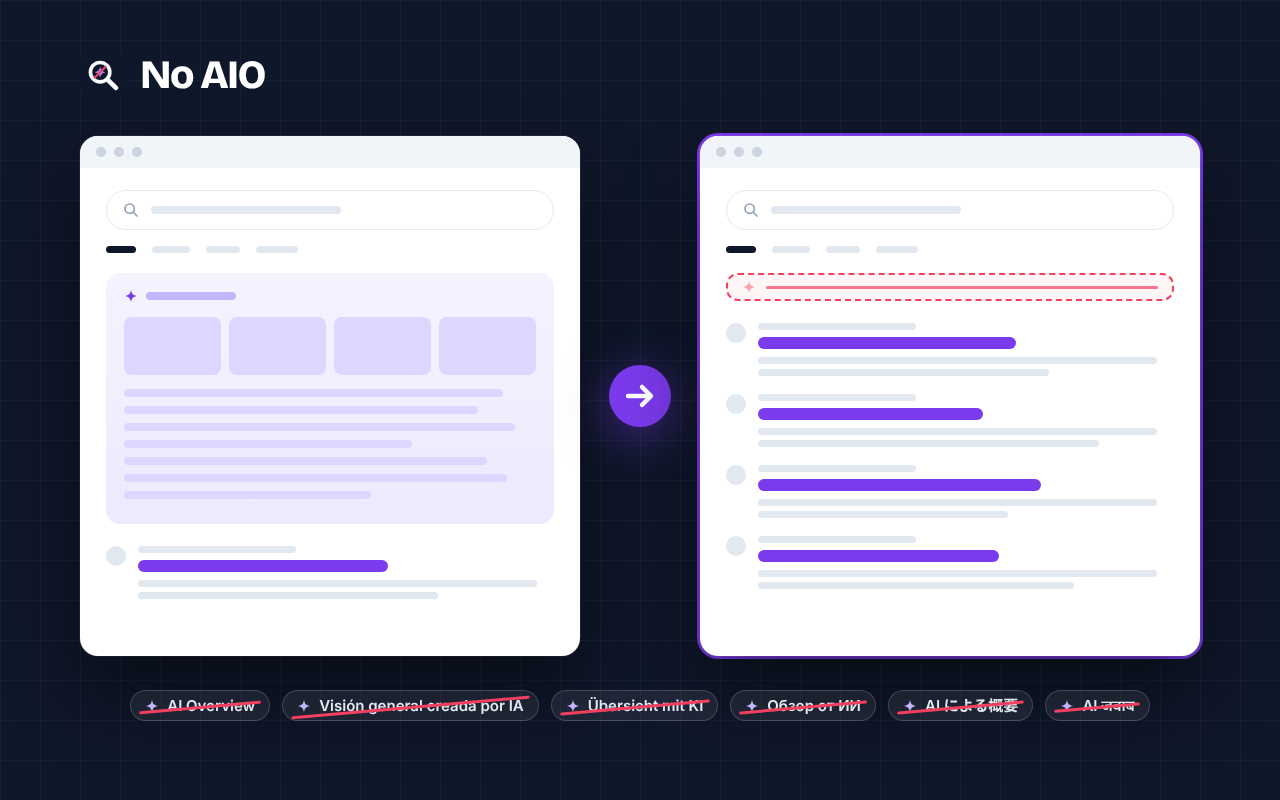
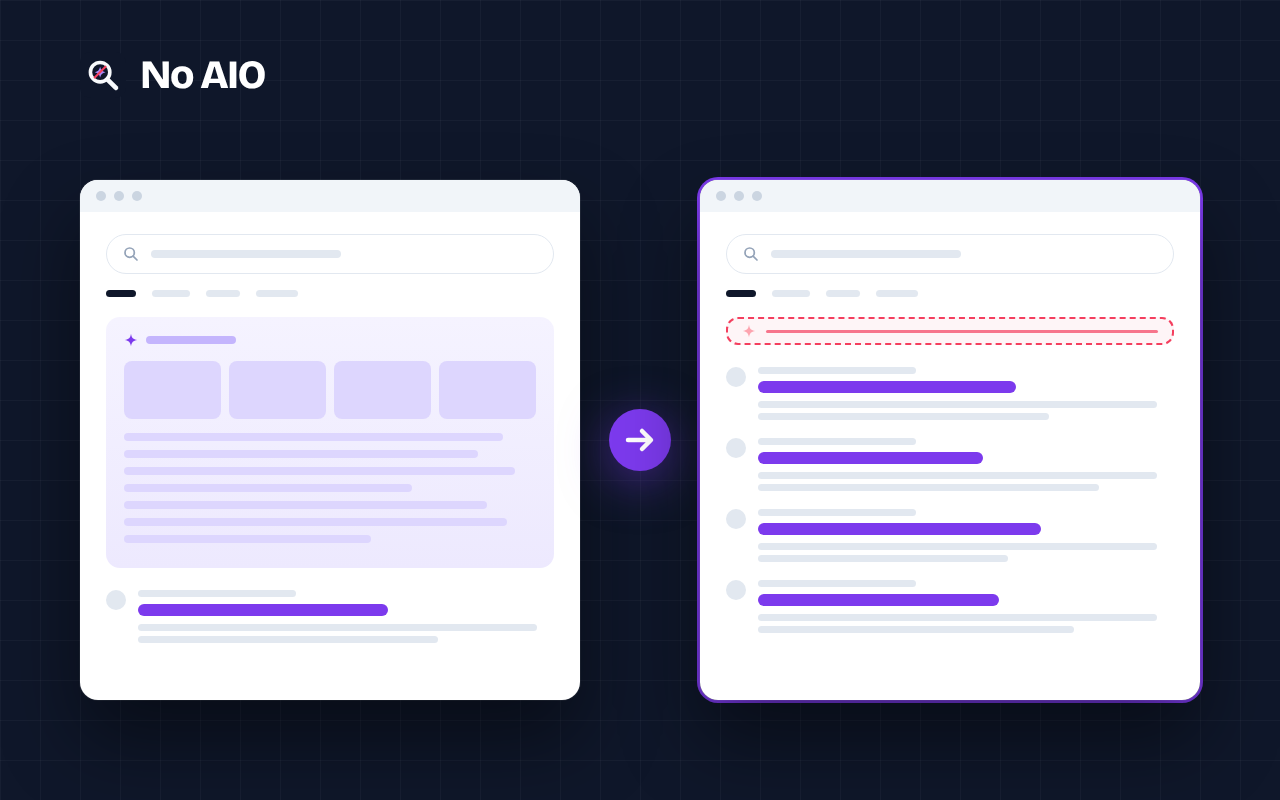
Captura universal sin la fila de etiquetas tachadas
Claude-Session: https://claude.ai/code/session_014NuHJHxpdZbSw9ow7VeDFp

diff --git a/scripts/render-store.py b/scripts/render-store.py
@@ -288,10 +288,10 @@ def screenshot_uni():
     return f"""<div class="abs glow grid" style="inset:0"></div>
 <div class="abs" style="left:80px;top:52px;display:flex;align-items:center;gap:14px">
 <div style="width:46px;height:46px">{ICON}</div><div class="word" style="font-size:40px">No AIO</div></div>
-<div class="abs" style="left:80px;top:136px">{serp_state(500, True)}</div>
-<div class="abs" style="left:608px;top:364px;filter:drop-shadow(0 10px 24px rgba(124,58,237,.5))">{arrow}</div>
-<div class="abs" style="left:700px;top:136px;box-shadow:0 0 0 3px {VIOLET};border-radius:18px">{serp_state(500, False)}</div>
-<div class="abs" style="left:80px;right:80px;top:690px;display:flex;flex-wrap:wrap;gap:12px;justify-content:center">{chips(LABELS)}</div>"""
+<div class="abs" style="left:80px;top:180px">{serp_state(500, True)}</div>
+<div class="abs" style="left:608px;top:408px;filter:drop-shadow(0 10px 24px rgba(124,58,237,.5))">{arrow}</div>
+<div class="abs" style="left:700px;top:180px;box-shadow:0 0 0 3px {VIOLET};border-radius:18px">{serp_state(500, False)}</div>
+"""
 
 def small_tile_uni():
     return f"""<div class="abs glow grid" style="inset:0"></div>
